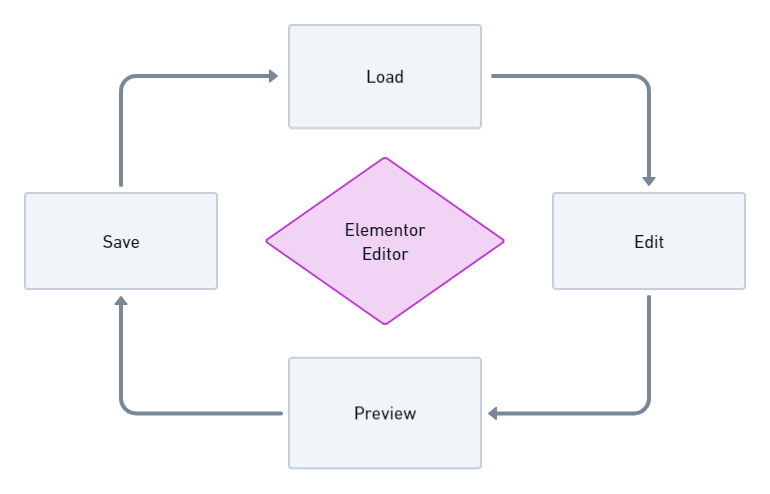
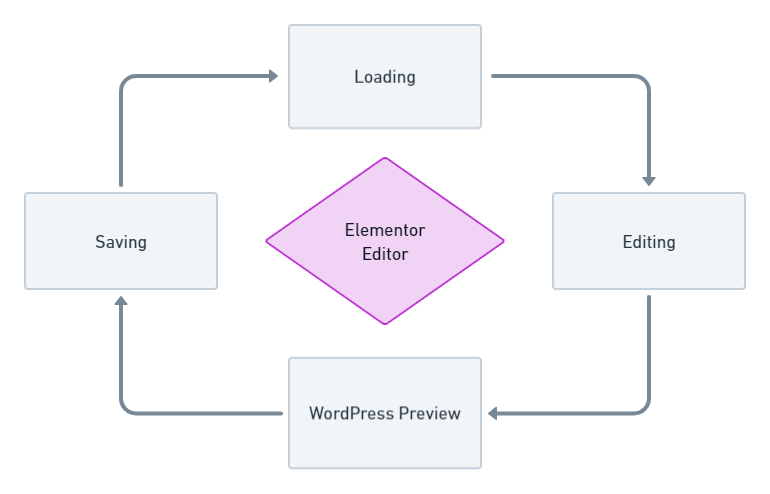
update

diff --git a/src/.vuepress/sidebars/editor.js b/src/.vuepress/sidebars/editor.js
@@ -17,14 +17,6 @@ module.exports = [
     ]
   },
   {
-    title: 'Editor Work Flow',
-    collapsable: false,
-    sidebarDepth: -1,
-    children: [
-      'editor-work-flow',
-    ]
-  },
-  {
     title: 'Editor Panels',
     collapsable: false,
     sidebarDepth: -1,
@@ -35,6 +27,18 @@ module.exports = [
       'page-settings-panel',
       'history-panel',
       'widgets-panel',
+    ]
+  },
+  {
+    title: 'How the Editor Works',
+    collapsable: false,
+    sidebarDepth: -1,
+    children: [
+      'editor-work-flow',
+      [ 'editor-loading', 'Loading' ],
+      [ 'editor-editing', 'Editing' ],
+      [ 'editor-preview', 'WP Preview' ],
+      [ 'editor-saving', 'Saving' ],
     ]
   },
   {

diff --git a/src/editor/editor-work-flow.md b/src/editor/editor-work-flow.md
@@ -1,69 +1,12 @@
 # Editor Work Flow
 
-What happens behind the scene when the user creates a new Elementor page? The work flow lifecycle has four stages: **Loading**, **Editing**, **Preview** and **Saving**.
+What happens behind the scene when the user creates a new Elementor page? The work flow lifecycle has four stages: **Loading**, **Editing**, **WordPress Preview** and **Saving**.
 
-<img :src="$withBase('/assets/img/elementor-editor-work-flow.png')" alt="Elementor Editor Work Flow">
+<img :src="$withBase('/assets/img/elementor-editor-work-flow2.png')" alt="Elementor Editor Work Flow">
 
-## Loading
+## Work Flows
 
-The loading stage has three seperate proceses, one loads the Editor and the other loads the Document and the preview.
-
-### Load the Editor
-
-* **Load Editor Config** -
-
-* * **General Loading Step** - not page spesific
-
-load the fonts, load all the dynamic-tags, all the icons, breakpoints, user permissions and capabilities, globas settings and all the cogif needed to render the editor app. general sfuff not page specific. page specific data include only the document info. (console: "elemntor.config")
-
-* * **Additional Loading Steps** - Page specific data - what document are we talking about, 
-
-* * **Load post-meta Data** - Check if there is (called `elementor-data`)
-
-* * **Load Document Type** - elementor.template_type
-
-* **Load Widgets Data** - Then we load the elements data (=widgets). All the controls of the widgets, sections, columns, contaners. seperate load because it has lots of data.
-
-* **Heartbeat** - (lock from editing by other users)
-
-### Load the Preview
-
-iframe with the url of the current page your are editing. loads without the post-content. rendering the theme with the content elements empty.
-
-### Load the Document
-
-* **Load post-meta Data** - Check if there is (called `elementor-data`)
-
-* **Set Document Type** - 
-
-Then we take php represintation of the widget and inject the rendered HTML to the preview. To show you what the visitor sees.
-
-## Editing
-
-When editing an Elementor page, behind the scene several processes occur.
-
-* **Re-render Widgets** - each time the user finish editing a widget (on blur), Elementor re-renders the widget PHP to display an updated view in the [Preview](./elementor-preview/).
-
-* **Autosave** - Each change triggers an autosave, this way Elementor can list all user actions in the [History Panel](./history-panel/) to track changes and restore previous versions. ... *In addition Elementor triggers the [WordPress Heartbeat API](https://developer.wordpress.org/plugins/javascript/heartbeat-api/) to create new autosaves* ...
-
-## Preview
-
-Elementor allows the user to preview the un-saved changes in the front-end to see the final result. When the user click the preview icon, a new tab is oppened and the folowing proccesses occure:
-
-* **Autosave** - A new autosave is triggered to store the unsaved data in the revision database.
-
-* **Open New Tab** - A new browser tab is oppened that displayes the revision from the previous step. The new browser tab is linked to the Editor tab, this way all the changes the in the Editor reflect in the Preview tab.
-
-* **TBD** - ... *theme builder data* ...
-
-## Saving
-
-When saving the data by either publishing the post or saving as a draft, Elementor needs to store all the data from the editor in the database.
-
-* **Editor Data** - The data entered by the user into the Editor is pulled in a JSON format. To make it smaller, all the default values are stripped.
-
-* **Save to post meta** - The entire JSON is saved in post meta (`elementor-data`).
-
-* **Regenerate CSS** - When saving data Elementor triggers a CSS regenerate to take into account new changes.
-
-* **More** - *... (talk to mati) ...*
+* [Loading](./editor-loading/) - How the Elementor loads the editor.
+* [Editing](./editor-editing/) - The processes that occur when editing the page.
+* [WordPress Preview](./editor-preview/) - Preview unsaved changes in the frontend.
+* [Saving](./editor-saving/) - What happen when Elementor saves the data.

diff --git a/src/editor/editor-loading.md b/src/editor/editor-loading.md
@@ -1,0 +1,27 @@
+# Editor Work Flow - Loading
+
+The loading stage has several seperate proceses, one loads the Editor and the other loads the Document and the preview.
+
+## Work Flow
+
+* **Prepare Editor Config**
+
+  * **Load post-meta Data** - PHP Check if there is post-meta called `elementor-data`.
+
+  * **Load Document Type** - PHP Check post meta `elementor_template_type` to decide which document we are displaying. This will affect the controls to load.
+
+* **Load Elementor Editor**
+
+  * **Load Editor Config** - PHP outputs the entire config data in a JS variable called `var ElementorConfig`.
+
+  * **General Loading Step** - JS. (not page spesific.) prepare all available widgets, dynamic-tags, icons, breakpoints, user permissions & capabilities, global settings and all the config needed to render the editor app. General sfuff not page specific. Page specific data include only the document info. (console: `elemntor.config`)
+
+  * **Additional Loading Steps** - JS. Prepare page specific data. What document are we talking about, 
+
+  * **Load Widgets Data** - JS. Then we load the elements data (=widgets). All the controls of the widgets, sections, columns, contaners. seperate load because it has lots of data.
+
+  * **Heartbeat** - (lock from editing by other users). Enables Elementor to lock the editing screen to specific users.
+
+* **Load Elementor Preview** - iframe with the url of the current page your are editing. loads without the post-content. rendering the theme with the content elements empty.
+
+* **Attach document Elements into the Presview** - Then we take php represintation of the widget and inject the rendered HTML to the preview. To show you what the visitor sees.

diff --git a/src/hooks/dashboard-widget-footer-actions.md b/src/hooks/dashboard-widget-footer-actions.md
@@ -1,0 +1,19 @@
+# Dashboard Widget Footer Actions
+
+<Badge type="tip" vertical="top" text="Elementor Core" /> <Badge type="warning" vertical="top" text="Advanced" />
+
+WordPress dashboard has a list dashboard widgets. Elementor adds its own "Elementor Overview" dashboard widget displaying information about Elementor. At the bottom of that dashboard widget, you will find the footer action links. Addon developers can add new action links.
+
+## Hook Details
+
+* **Hook Type:** Filter Hook
+* **Hook Name:** `elementor/admin/dashboard_overview_widget/footer_actions`
+* **Affects:** Admin
+
+## Hook Arguments
+
+| Argument            | Type      | Description                                     |
+|---------------------|-----------|-------------------------------------------------|
+| `additions_actions` | _`array`_ | Elementor dashboard widget footer action links. |
+
+## Check Whether or Not to Display the Content

diff --git a/src/editor/editor-saving.md b/src/editor/editor-saving.md
@@ -1,0 +1,11 @@
+# Editor Work Flow - Saving
+
+When saving the data by either publishing the post or saving as a draft, Elementor needs to store all the data from the editor in the database.
+
+## Work Flow
+
+* **Editor Data** - In the client site, the data (elements and settings) entered by the user into the Editor is sent in a JSON format to the server. To optimize the request, all the default values are stripped from the data.
+
+* **Save to Post Meta** - On the server side, the data is saved in two post-meta fields. One post meta for page elements in (`_elementor_data`) saved in JSON format, and the other (`_elementor_page_settings`) saved as an serialized-array (historical reason).
+
+* **Clear Generated CSS** - After saving data Elementor triggers a CSS cleanup. The page CSS is regenerated in first access to the page (if the css doesn't exist).

diff --git a/src/editor/editor-preview.md b/src/editor/editor-preview.md
@@ -1,0 +1,9 @@
+# Editor Work Flow - WordPress Preview
+
+Elementor allows the user to preview the un-saved changes in the front-end to see the final result. When the user click the preview icon, a new tab is oppened and the folowing proccesses occures:
+
+## Work Flow
+
+* **Autosave** - A new autosave is triggered to store the unsaved data in the revision database. If there are un-saved changes.
+
+* **Open New Tab** - A new browser tab is oppened that displayes the revision from the previous step. The new browser tab is linked to the Editor tab, this way all the changes the in the Editor reflect in the Preview tab. The tab is linked to the editor and on any save on Elementor Editor, the WordPress preview tab is reloaded.

diff --git a/src/editor/editor-editing.md b/src/editor/editor-editing.md
@@ -1,0 +1,9 @@
+# Editor Work Flow - Editing
+
+When editing an Elementor page, behind the scene several processes occur. Some changes in the editor trigger prossess, other do not.
+
+## Work Flow
+
+* **Re-render Widgets** - Each time the user finish editing a widget, Elementor re-renders the widget PHP to display an updated view in the [Preview](./elementor-preview/).
+
+* **Autosave** - Each change triggers an autosave, this way Elementor can list all user actions in the [History Panel](./history-panel/) to track changes and restore previous versions. ... *In addition Elementor triggers the [WordPress Heartbeat API](https://developer.wordpress.org/plugins/javascript/heartbeat-api/) to create new autosaves* ...
